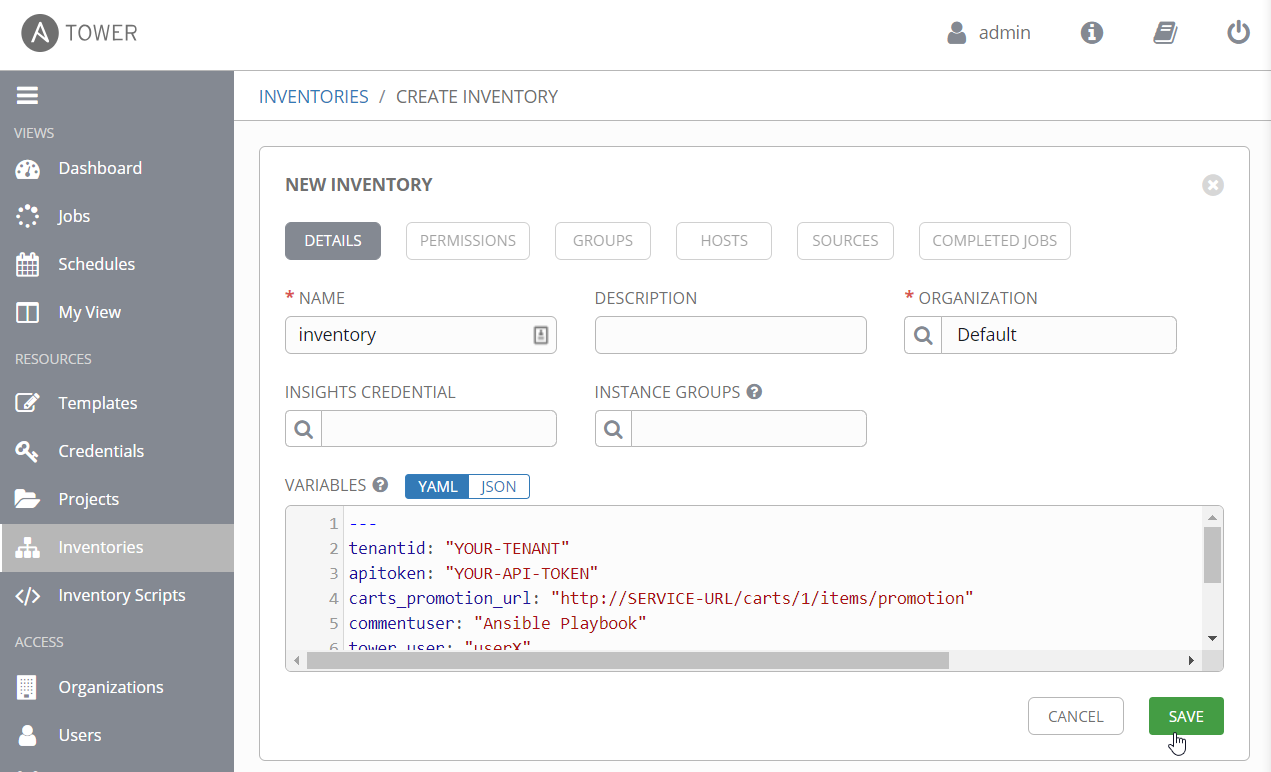
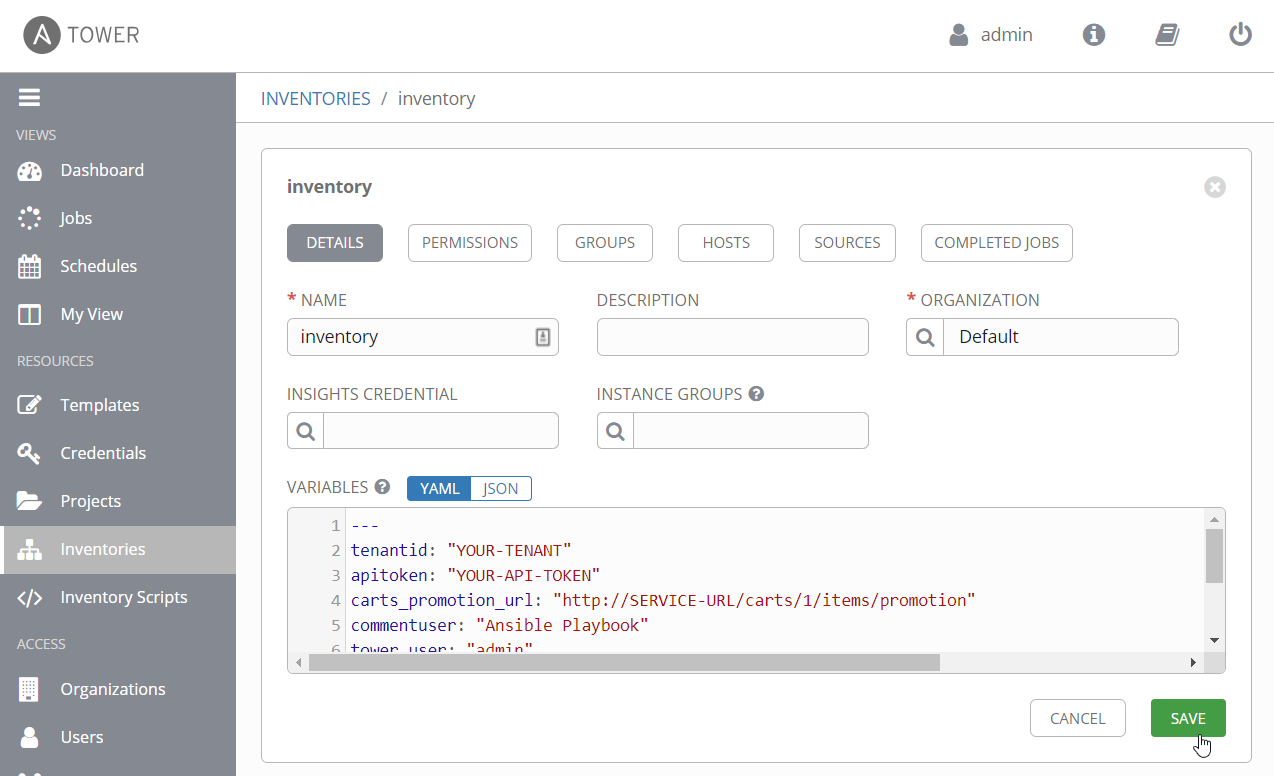
update instructions

diff --git a/workshop/09_Runbook_Automation_and_Self_Healing/02_Setup_Tower/README.md b/workshop/09_Runbook_Automation_and_Self_Healing/02_Setup_Tower/README.md
@@ -21,7 +21,7 @@ Let's get started!
 1. Navigate to **Project** and create a new project
     - Name: self-healing
     - SCM Type: Git
-    - SCM Url: `https://github.com/dynatrace-innovationlab/acl-docs`
+    - SCM Url: `https://github.com/dynatrace-innovationlab/acl-docs` (might be different for you workshop, please ask your instructor)
     - SCM Credential: git-token
     - SCM Update Options:
       - Check _Clean_: overwrite local changes each time you get latest SCM version
@@ -37,7 +37,7 @@ Let's get started!
       apitoken: "YOUR-API-TOKEN"
       carts_promotion_url: "http://SERVICE-URL/carts/1/items/promotion"
       commentuser: "Ansible Playbook"
-      tower_user: "userX"
+      tower_user: "admin"
       tower_password: "dynatrace"
       dtcommentapiurl: "https://{{tenantid}}.live.dynatrace.com/api/v1/problem/details/{{pid}}/comments?Api-Token={{apitoken}}"
       dteventapiurl: "https://{{tenantid}}.live.dynatrace.com/api/v1/events/?Api-Token={{apitoken}}"
